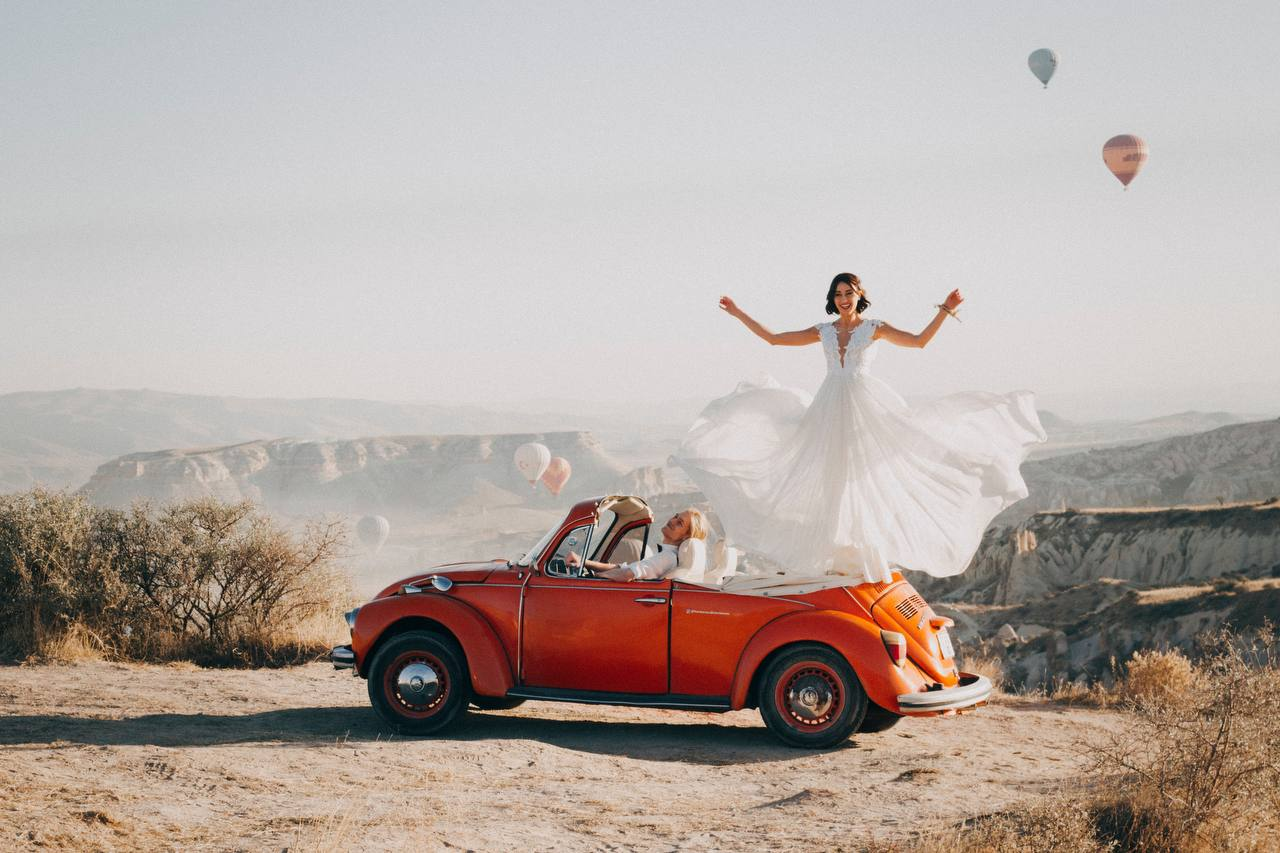
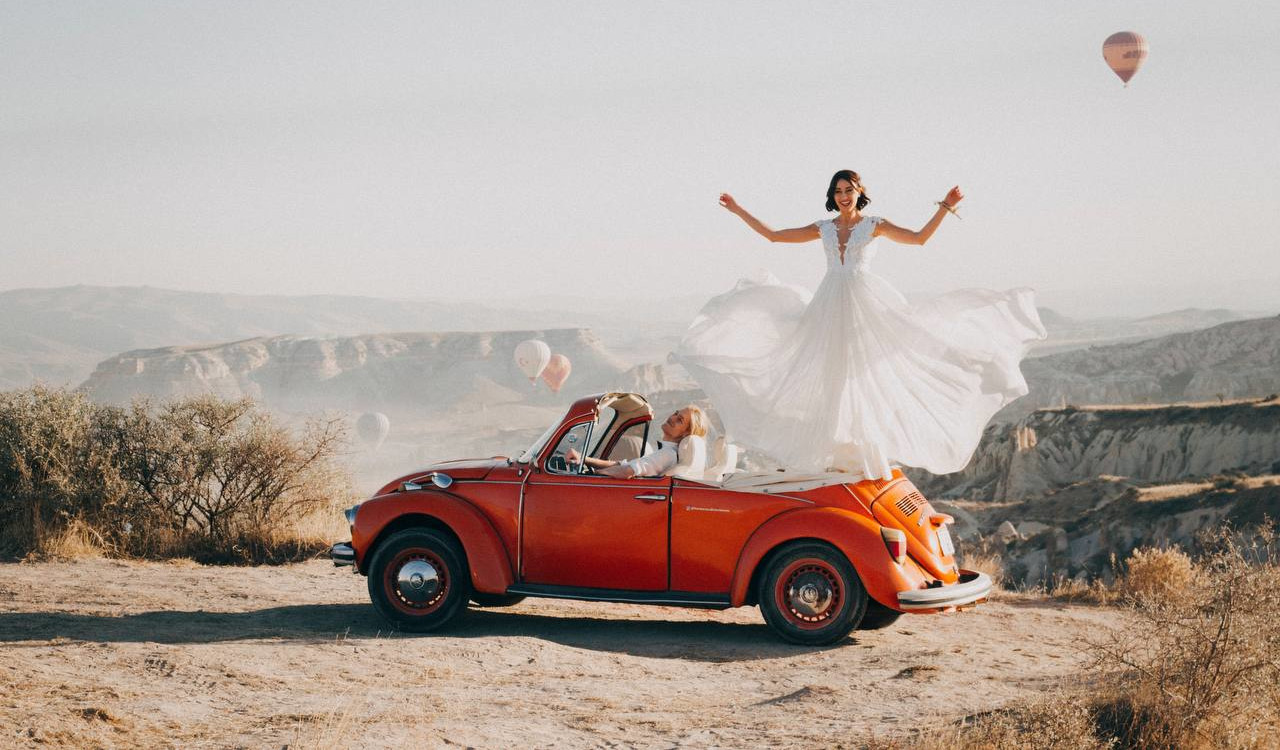
auto in hero section erscheint besser

diff --git a/src/components/HeroSection.tsx b/src/components/HeroSection.tsx
@@ -51,9 +51,9 @@ export default function HeroSection() {
         <Carousel height="90vh" sx={{ position: "absolute",height: "90vh",
             width: "100%",
             zIndex: 1 }}>
-            <StaticImage src="../images/hero/wedding-menue.jpg" alt="Marilyn Wedding Events - Hochzeitsmenü" height={1500} layout='fullWidth'></StaticImage>
-            <StaticImage src="../images/hero/photo_2022-11-29_10-51-46.jpg" alt="Marilyn Wedding Events - Brautstrauß" height={1500} layout='fullWidth'></StaticImage>
-            <StaticImage src="../images/hero/photo_2022-11-29_10-52-09.jpg" alt="Marilyn Wedding Events - Hochzeitsreise" height={1500} layout='fullWidth'></StaticImage>
+            <StaticImage src="../images/hero/wedding-menue.jpg" alt="Marilyn Wedding Events - Hochzeitsmenü" layout='fullWidth'></StaticImage>
+            <StaticImage src="../images/hero/photo_2022-11-29_10-51-46.jpg" alt="Marilyn Wedding Events - Brautstrauß" layout='fullWidth'></StaticImage>
+            <StaticImage src="../images/hero/photo_2022-11-29_10-52-09.jpg" alt="Marilyn Wedding Events - Hochzeitsreise" layout='fullWidth'></StaticImage>
         </Carousel>
         <StyledOverlay/>
         <Container sx={{height: "90vh"}} maxWidth={true}>
